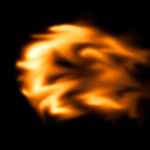
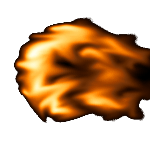
Fireballs move now\!

diff --git a/items.py b/items.py
@@ -65,10 +65,11 @@ class Fireball(pygame.sprite.Sprite):
     def __init__(self, origin, direction):
         pygame.sprite.Sprite.__init__(self)
         self.direction = direction
-        self.image = pygame.image.load('assets/images/fireegg.png')
+        self.image = pygame.image.load('assets/images/fireball.png')
+        print self.image.get_colorkey()
         self.image.set_colorkey(self.image.get_at((0,0)))
+        print self.image.get_colorkey()
         self.rect = self.image.get_rect()
         self.rect.topleft = origin
-        print self.rect.topleft
     def update(self):
-        self.rect.x += self.direction
+        self.rect.x += self.direction*10

diff --git a/hunterclass.py b/hunterclass.py
@@ -37,6 +37,7 @@ class Hunter(pygame.sprite.Sprite):
 
     def update(self):
         self.effects.update() # This where the effects do their magic based on the update() function in their item class.
+        self.projectiles.update() # This where the effects do their magic based on the update() function in their item class.
         self.move(self.movex, self.movey)
         for item, x in zip(self.inventory, range(len(self.inventory))):
             item.rect.x = x*70
